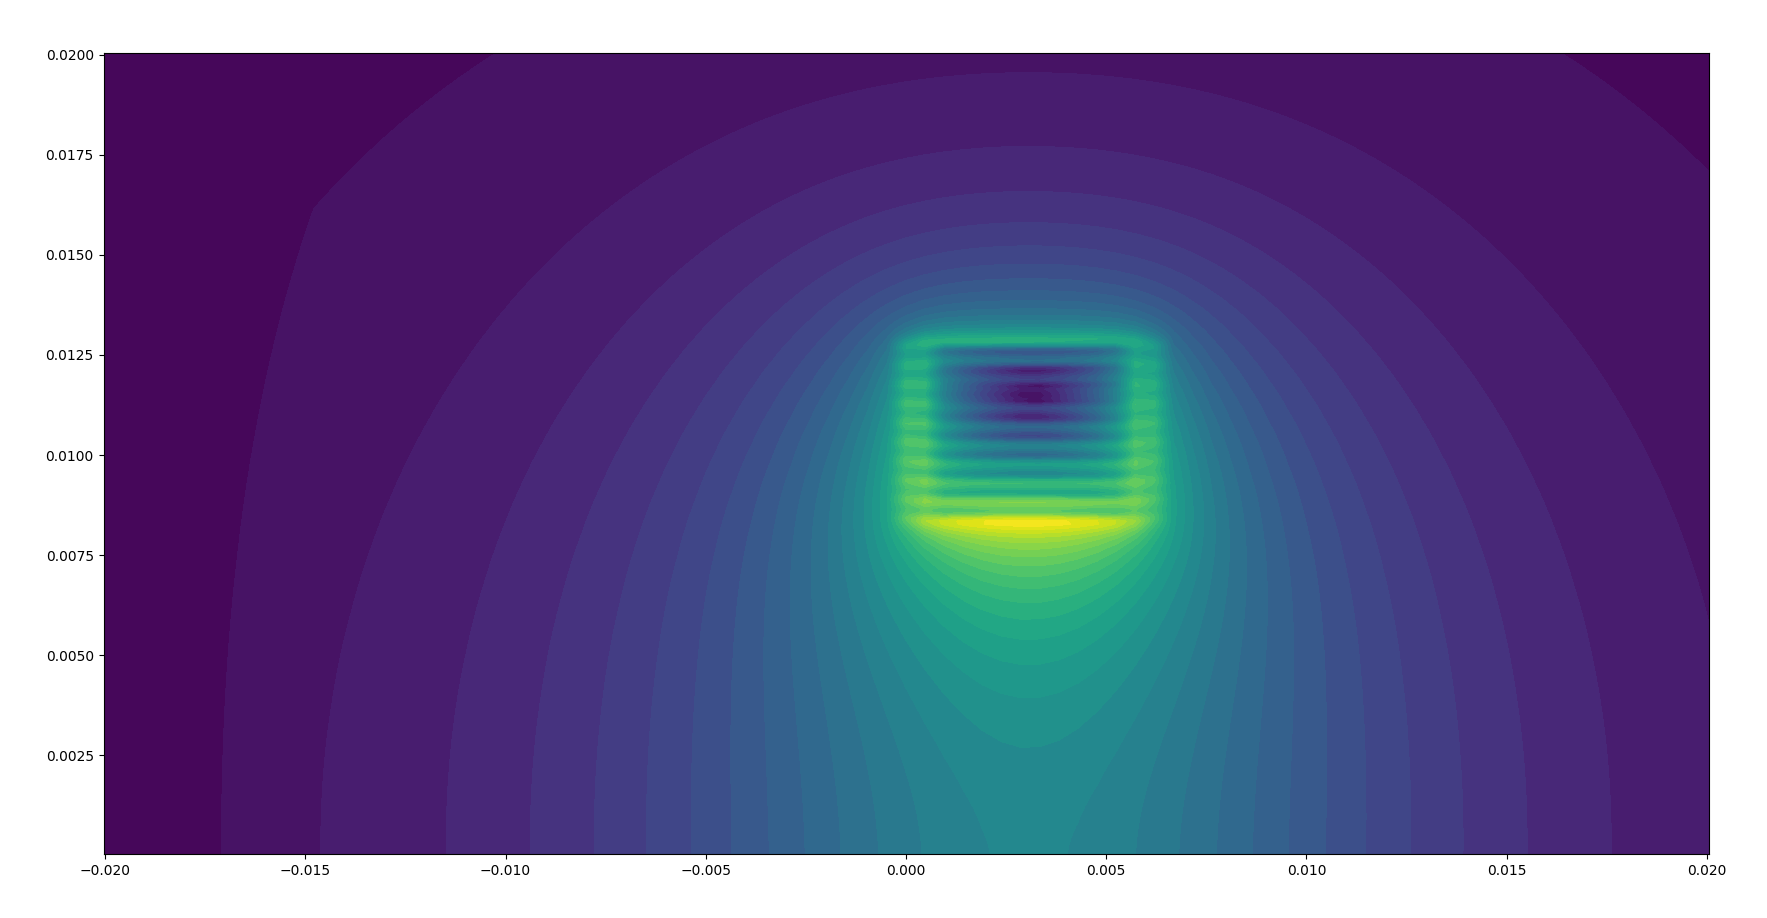
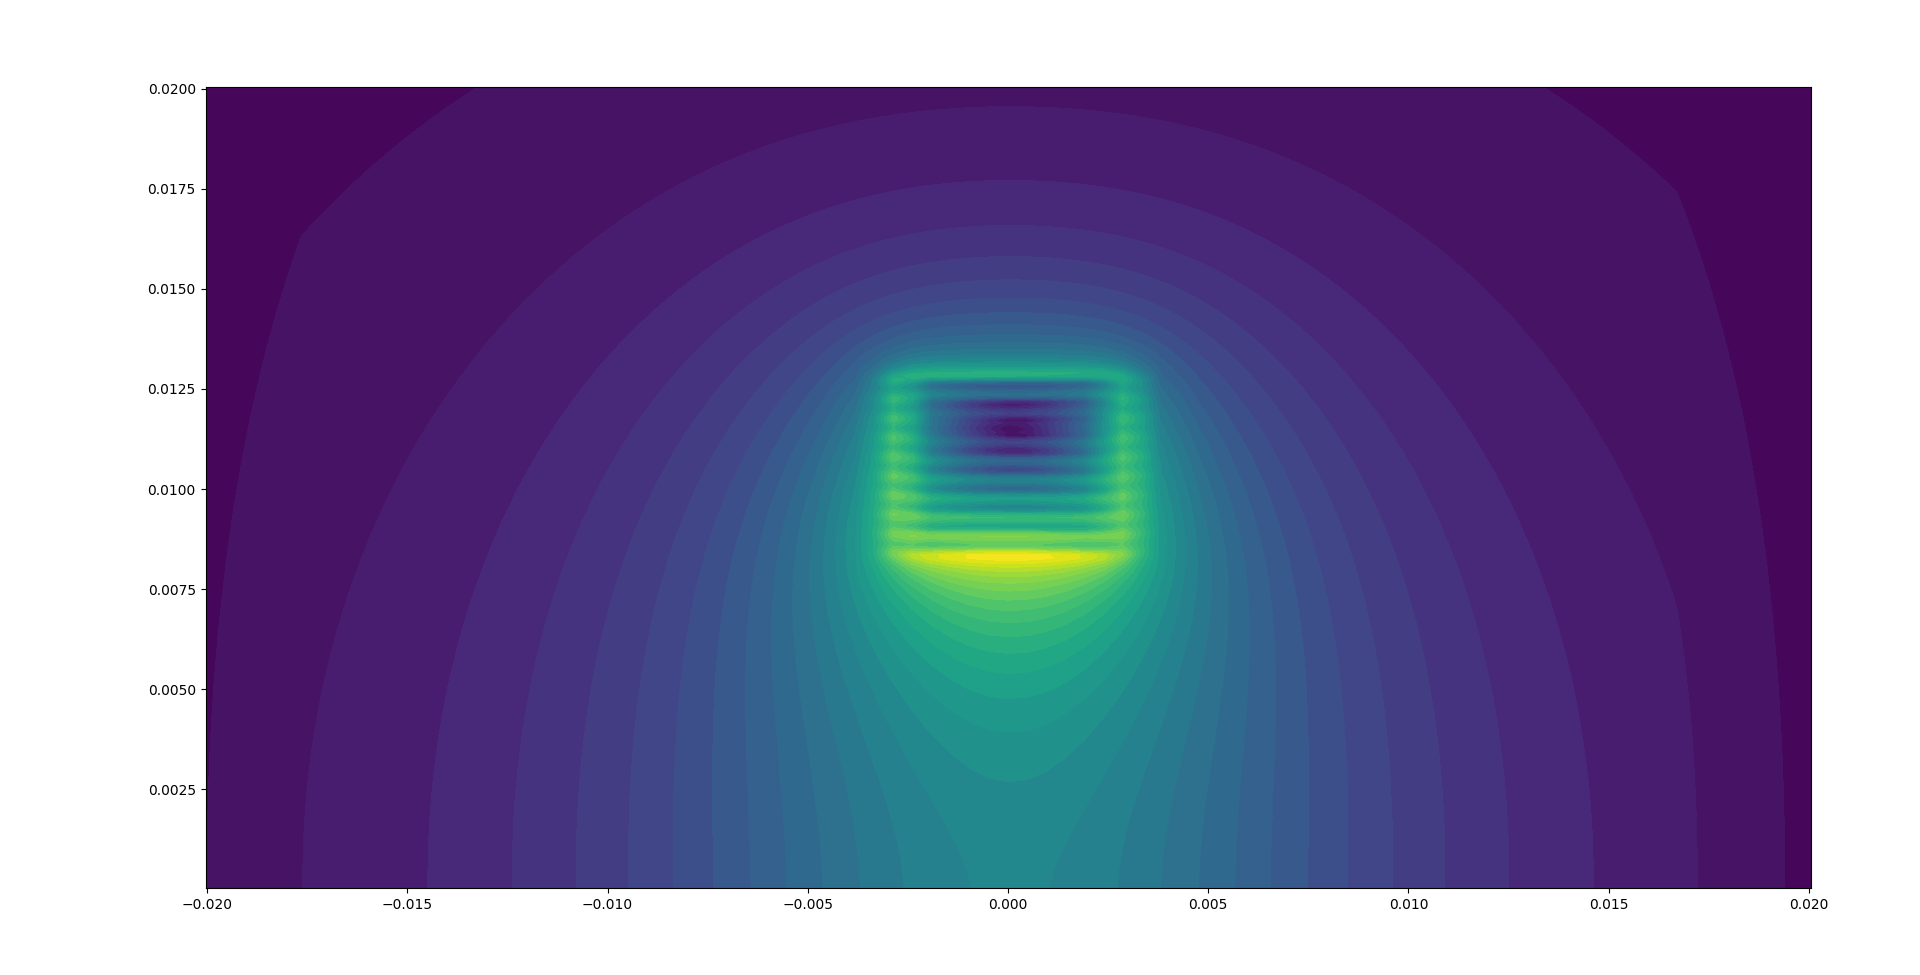
Shifting solution to center.

Changed region(s): [[0.0311, 0.0305, 0.9649, 0.9455]]

diff --git a/01_simulation/01_hybrid/model/solver.py b/01_simulation/01_hybrid/model/solver.py
@@ -65,9 +65,10 @@ class Solver:
 
         for turn in range(sheet_turns):
             # Sums the sources using superposition.
-            pixels = (turn * self.effective_diameter) / dz_grid
-            r += ndshift(integrand_r, shift=(pixels, 0.0), mode='constant', cval=0.0)
-            z += ndshift(integrand_z, shift=(pixels, 0.0), mode='constant', cval=0.0)
+            shift = (turn * self.effective_diameter - self.slot_axial_length / 2) / dz_grid
+
+            r += ndshift(integrand_r, shift=(shift, 0.0), mode='constant', cval=0.0)
+            z += ndshift(integrand_z, shift=(shift, 0.0), mode='constant', cval=0.0)
 
         self.slot_kernel_integrand_r = r
         self.slot_kernel_integrand_z = z
